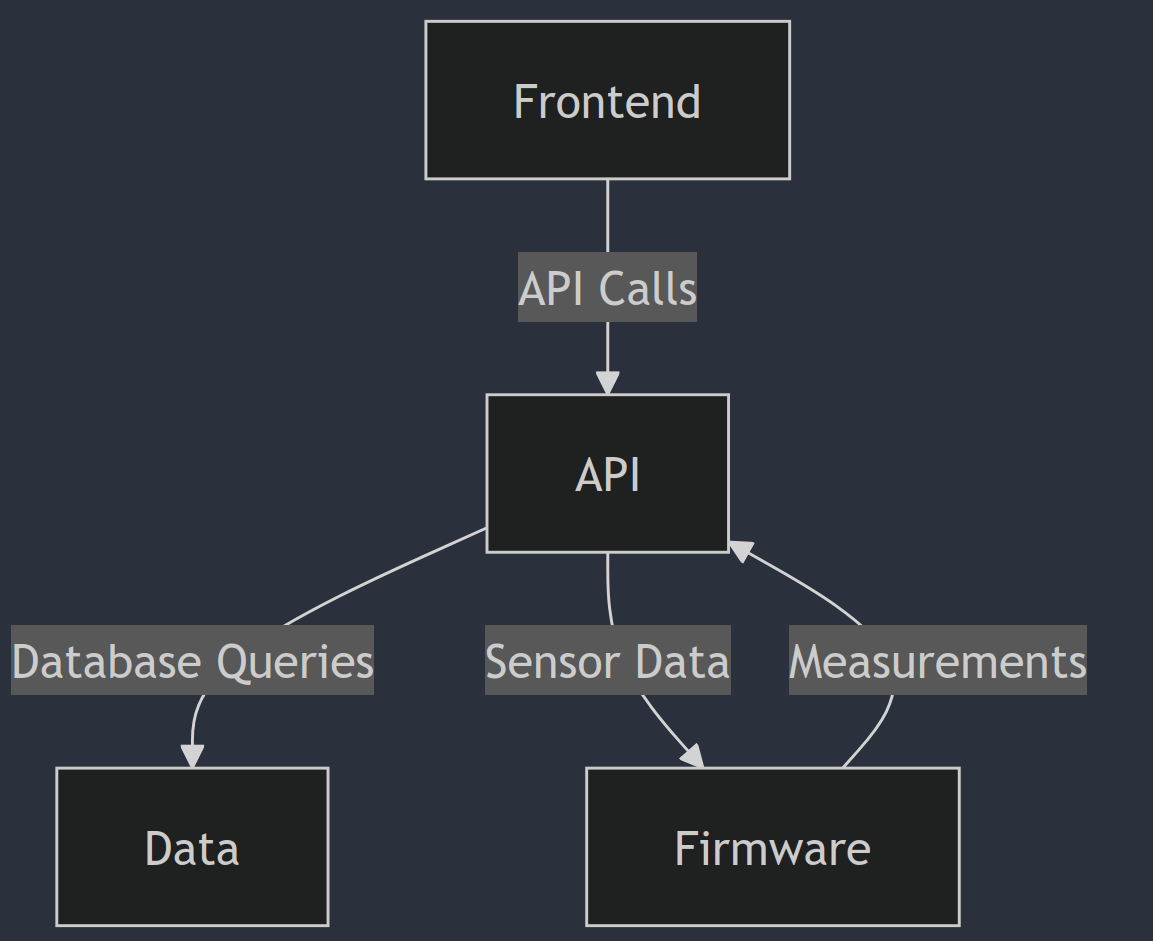
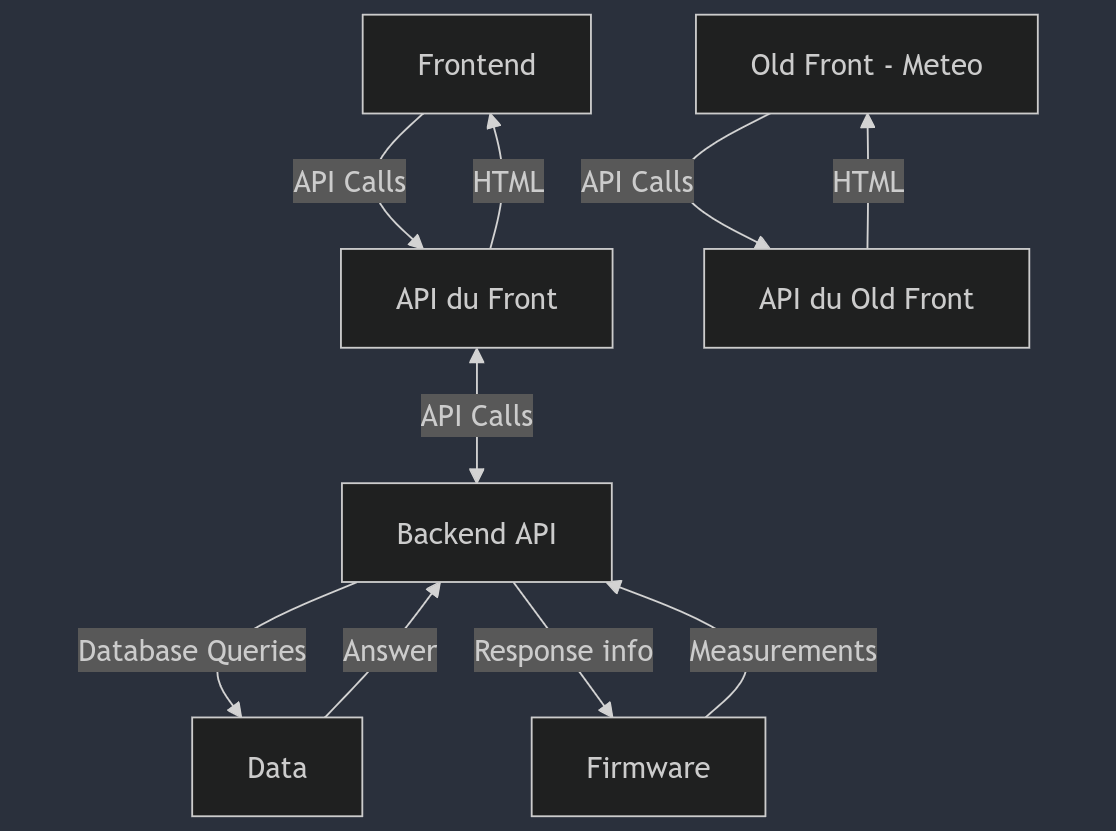
Update user insertion script and enhance README.md with new diagram and image

diff --git a/Logement_Eco/data/insert_users.py b/Logement_Eco/data/insert_users.py
@@ -12,6 +12,6 @@ try:
 except:
     print("Utilisateur déjà créé")
 try:
-    create_user("Daniel", "daniel", [3, 4, 5, 6])
+    create_user("Daniel", "daniel", [1, 2, 4, 6])
 except:
     print("Utilisateur déjà créé")

diff --git a/Logement_Eco/readme.md b/Logement_Eco/readme.md
@@ -6,7 +6,7 @@
 5. [Description Ostensible Complète (DOC) 📜](#description-ostensible-complète)
 
 # Présentation du Projet
-![View du Projet](https://raw.githubusercontent.com/dan-lara/IoT-Projects/master/Logement_Eco/front.jpeg)
+![View du Projet](https://raw.githubusercontent.com/dan-lara/IoT-Projects/master/Logement_Eco/front.png)
 
 Ce projet a été développé dans le cadre du TP IoT EISE4, visant à créer une solution complète de monitoring et gestion éco-responsable pour les logements. Mon application permet de :
 
@@ -70,6 +70,10 @@ docker-compose up --build
     └── readme.md
     └── requirements.txt
 ```
+### Diagramme
+![Diagramme](https://raw.githubusercontent.com/dan-lara/IoT-Projects/master/Logement_Eco/diagram.png)
+
+
 ### Modules Principaux du Projet
 
 Le projet est divisé en 4 modules principaux :
@@ -186,7 +190,7 @@ Responsable de la gestion des données et de la structure de la base de données
 - **insere.sql** : Scripts d'insertion des données initiales
 - **schema.png** : Visualisation du schéma de la base de données
 
-### 3. Module Frontend (`/front`)
+## 3. Module Frontend (`/front`)
 Interface utilisateur complète du projet.
 
 ```
@@ -233,7 +237,7 @@ Interface utilisateur complète du projet.
 - economies.html
 - logements.html
 
-### 4. Module Firmware (`/firmware`)
+## 4. Module Firmware (`/firmware`)
 Gestion des capteurs et des mesures physiques.
 
 ```
